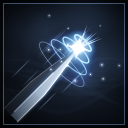
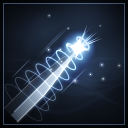
[Claude] feat(ui): 突刺圖示的氣旋環增加到八圈並套住整段劍身
每圈拆成前後兩半，後半圈在劍身底下、前半圈蓋在劍身上，呈現環套在劍上的立體感；仍是刀尖最小、往後漸大。技能圖示快取版號 +1（ui.js 1.0.144）。

diff --git a/tools/skill-icons/skill-icon-painter.js b/tools/skill-icons/skill-icon-painter.js
@@ -446,20 +446,31 @@
         rgba('#a8d0ff', range(R, 0.15, 0.4)));
     }
     normal(c);
-    /* 衝擊波紋：刀尖最小，沿刀身往後一圈比一圈大、越淡（像音爆錐往後擴散；使用者指定由小漸大，不能反過來） */
-    add(c);
-    for (var k = 0; k < 4; k++) {
-      var d = 14 - k * 20;
+    /* 衝擊波紋：套在整段劍身上的一串環，刀尖最小、往後一圈比一圈大、越淡
+       （像音爆錐往後擴散；使用者指定由小漸大，不能反過來）。
+       每圈拆兩半：後半圈畫在劍身底下、前半圈蓋在劍身上，看起來才是「套在劍上」。 */
+    var RINGS = 8;
+    var ring = function (k, front) {
+      var t = k / (RINGS - 1);
+      var d = 14 - k * 24;
       c.save(); c.translate(tx + dx * d, ty + dy * d); c.rotate(ang);
-      c.strokeStyle = rgba('#bfe0ff', 0.85 - k * 0.17); c.lineWidth = 3.2 - k * 0.5;
-      c.shadowBlur = 12; c.shadowColor = '#7fb8ff';
-      c.beginPath(); c.ellipse(0, 0, 7 + k * 3, 22 + k * 13, 0, 0, TAU); c.stroke();
+      c.strokeStyle = rgba('#bfe0ff', lerp(0.9, 0.22, t)); c.lineWidth = lerp(3, 1.3, t);
+      c.shadowBlur = 10; c.shadowColor = '#7fb8ff';
+      c.beginPath();
+      if (front) c.ellipse(0, 0, lerp(6, 14, t), lerp(16, 50, t), 0, -Math.PI / 2, Math.PI / 2);
+      else c.ellipse(0, 0, lerp(6, 14, t), lerp(16, 50, t), 0, Math.PI / 2, Math.PI * 1.5);
+      c.stroke();
       c.restore();
-    }
+    };
+    add(c);
+    for (var k = 0; k < RINGS; k++) ring(k, false);
     normal(c);
     /* 刀身前半段：寬，往刀尖收 */
     var bx = tx - dx * 190, by = ty - dy * 190;
     bladeAlong(c, linePts(bx, by, tx, ty, 26), 19, STEEL, { wFn: function (t) { return t > 0.4 ? Math.pow((1 - t) / 0.6, 0.75) : 1; } });
+    add(c);
+    for (var k2 = 0; k2 < RINGS; k2++) ring(k2, true);
+    normal(c);
     /* 中央血槽 */
     add(c);
     strokePts(c, linePts(bx + dx * 10, by + dy * 10, tx - dx * 70, ty - dy * 70, 2), 2.4, 'rgba(220,235,255,0.45)');

diff --git a/js/ui.js b/js/ui.js
@@ -3655,7 +3655,7 @@ function battleSkillSlotKey(state) {
 /* 技能圖示：skills2 群組用畫好的圖（images/skills/<群組id>.png，由 tools/skill-icons/ 產生），
    潛力技能等其餘技能沿用 emoji。entry 可為 'sg:<群組id>' 或群組 id；
    圖載入失敗（例如新群組還沒出圖）時退回 emoji。重新出圖後要把 SKILL_ICON_VER +1，否則玩家會看到快取的舊圖。 */
-var SKILL_ICON_VER = '5';
+var SKILL_ICON_VER = '6';
 function skillIconGid(entry) {
   if (typeof entry !== 'string' || typeof SKILLS2 === 'undefined') return '';
   var gid = entry.indexOf('sg:') === 0 ? entry.slice(3) : entry;

diff --git a/index.html b/index.html
@@ -960,7 +960,7 @@
   <script src="js/potential.js?v=1.0.9"></script>
   <script src="js/tower.js?v=1.0.23"></script>
   <script src="js/save.js?v=1.0.13"></script>
-  <script src="js/ui.js?v=1.0.143"></script>
+  <script src="js/ui.js?v=1.0.144"></script>
   <script src="js/ui-runeword.js?v=1.0.6"></script>
   <script src="js/param_autoreload.js"></script>
   <!-- GM 面板。指令執行層在 js/gm_exec.js，由 Worker importScripts 載入 -->
